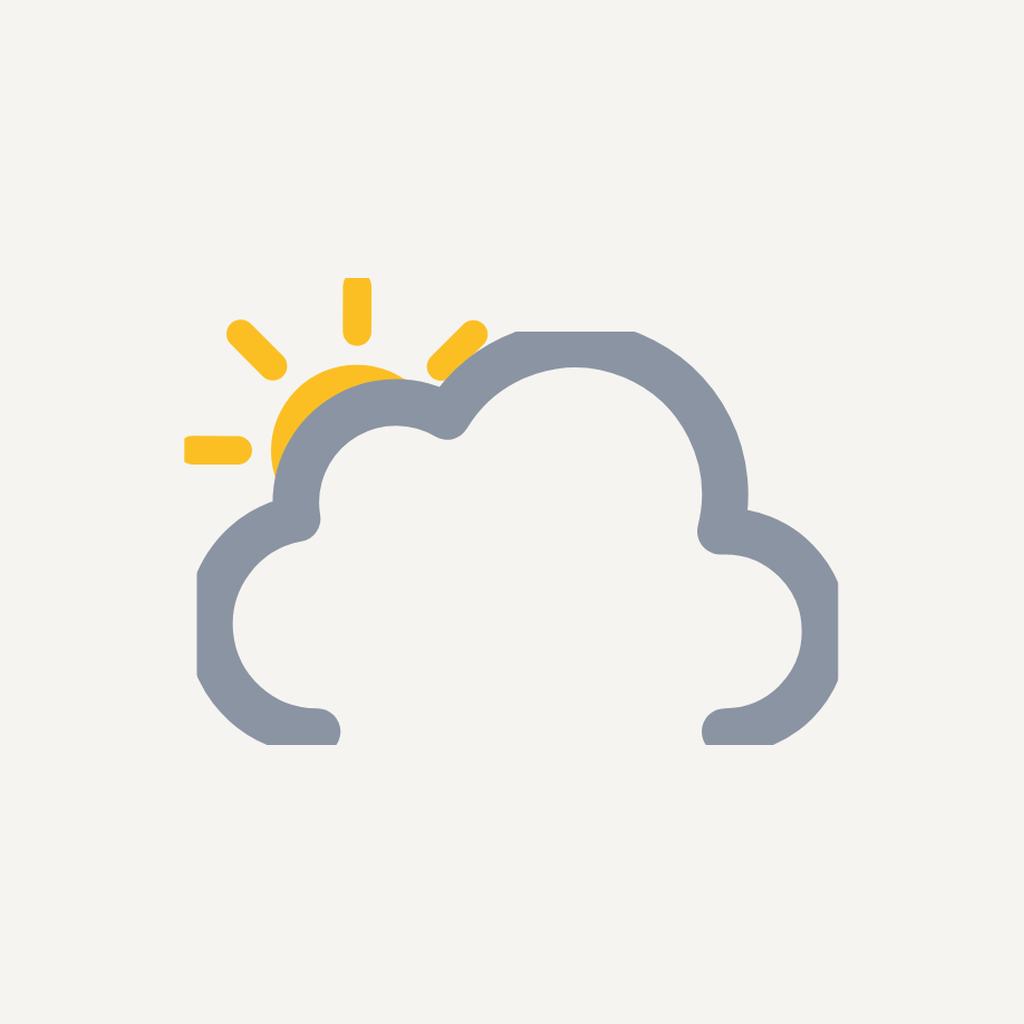
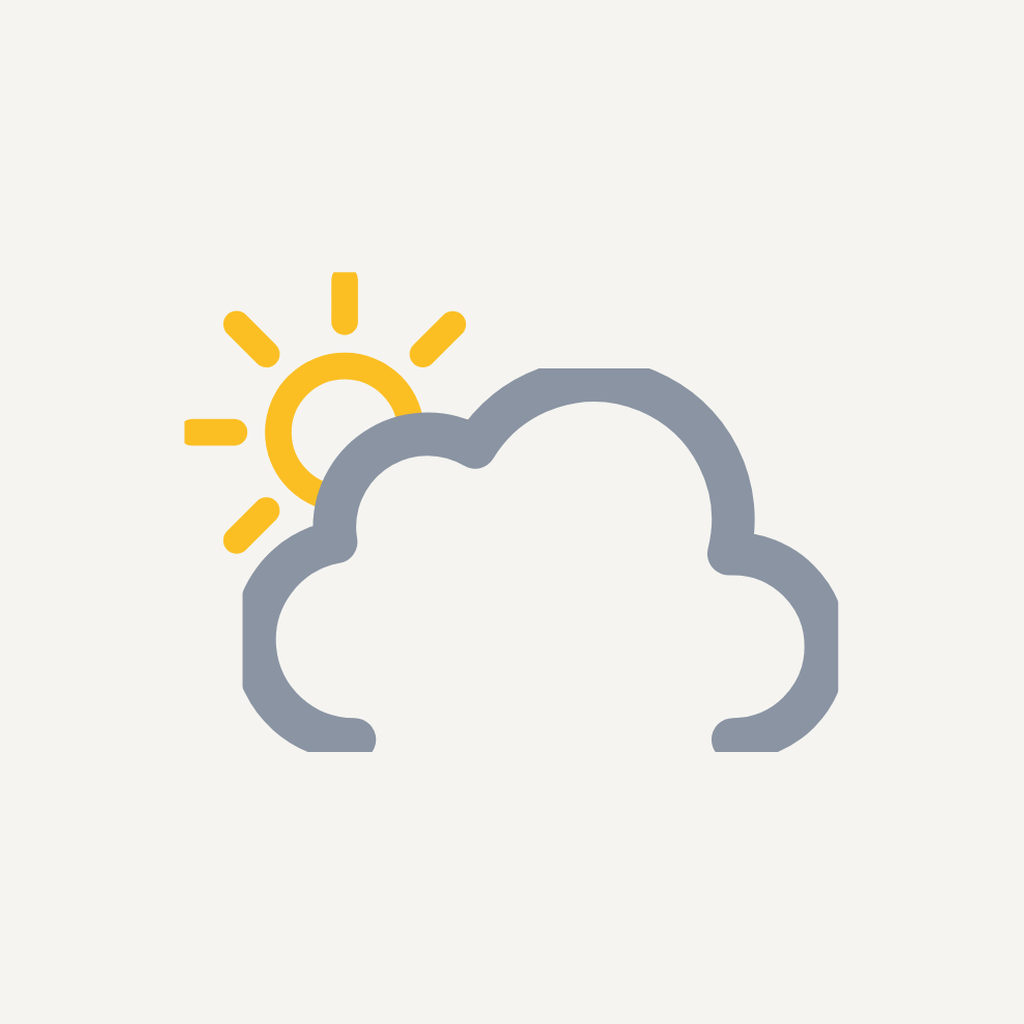
アプリアイコンの太陽を左上に移動

diff --git a/sw.js b/sw.js
@@ -1,6 +1,6 @@
 // 自分のファイルだけを「ネットワーク優先・失敗したらキャッシュ」で扱う。
 // 天気のAPIはキャッシュしない(前回の天気はアプリ側で保存している)。
-const CACHE_NAME = "sorayomi-v5";
+const CACHE_NAME = "sorayomi-v6";
 const ASSETS = [
   "./",
   "./index.html",
